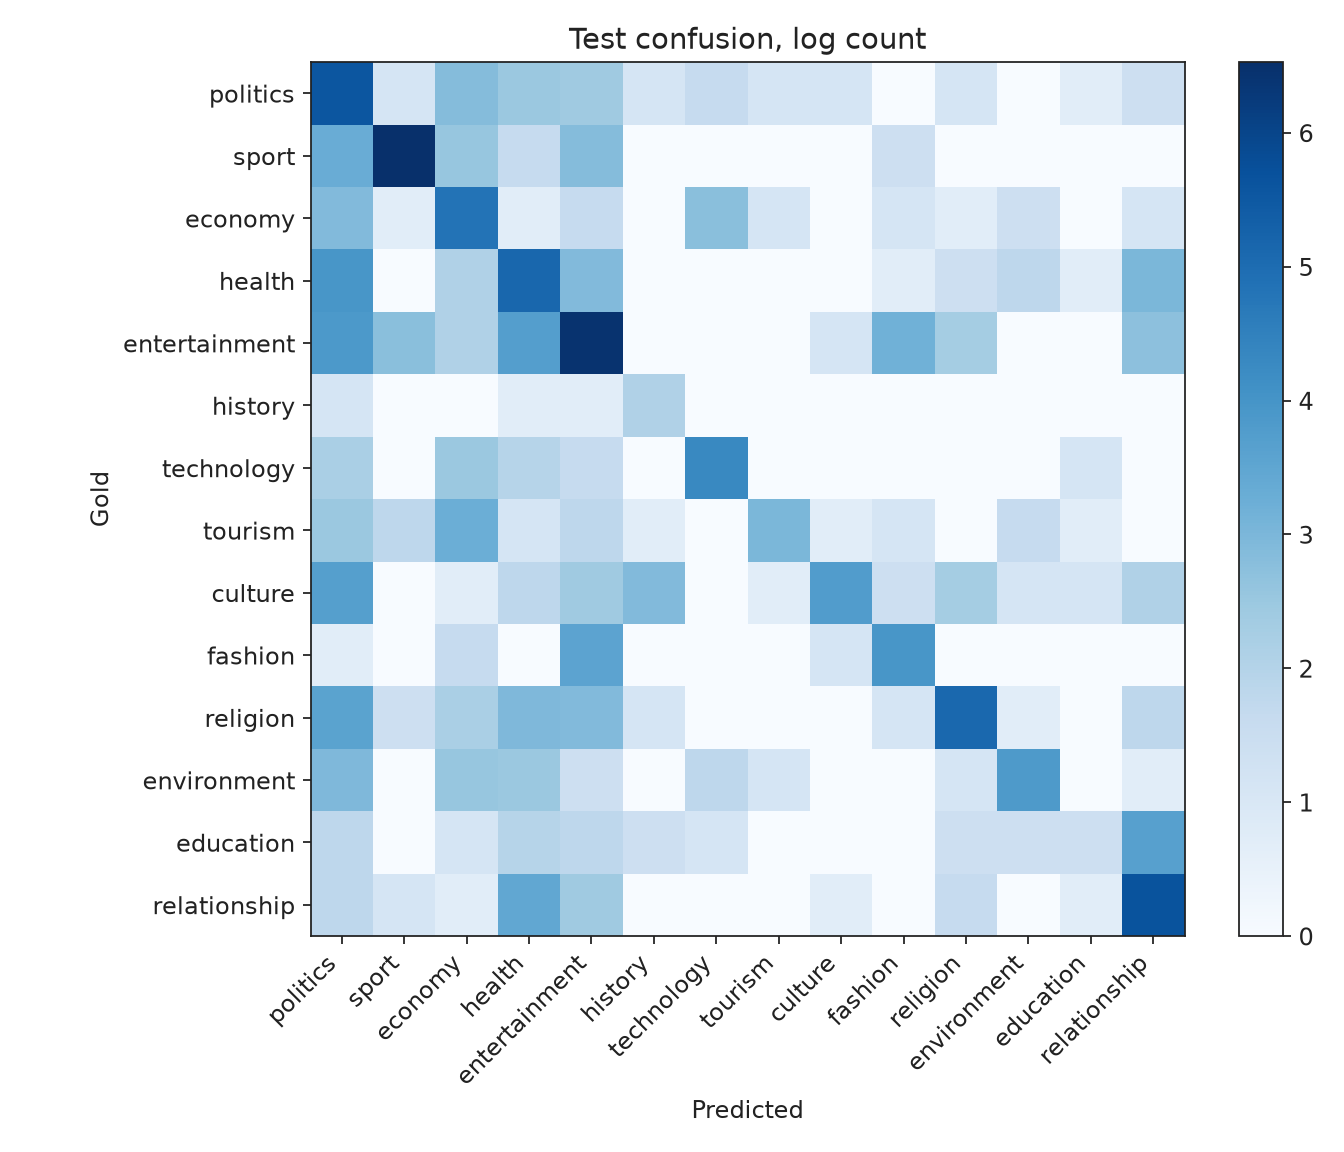
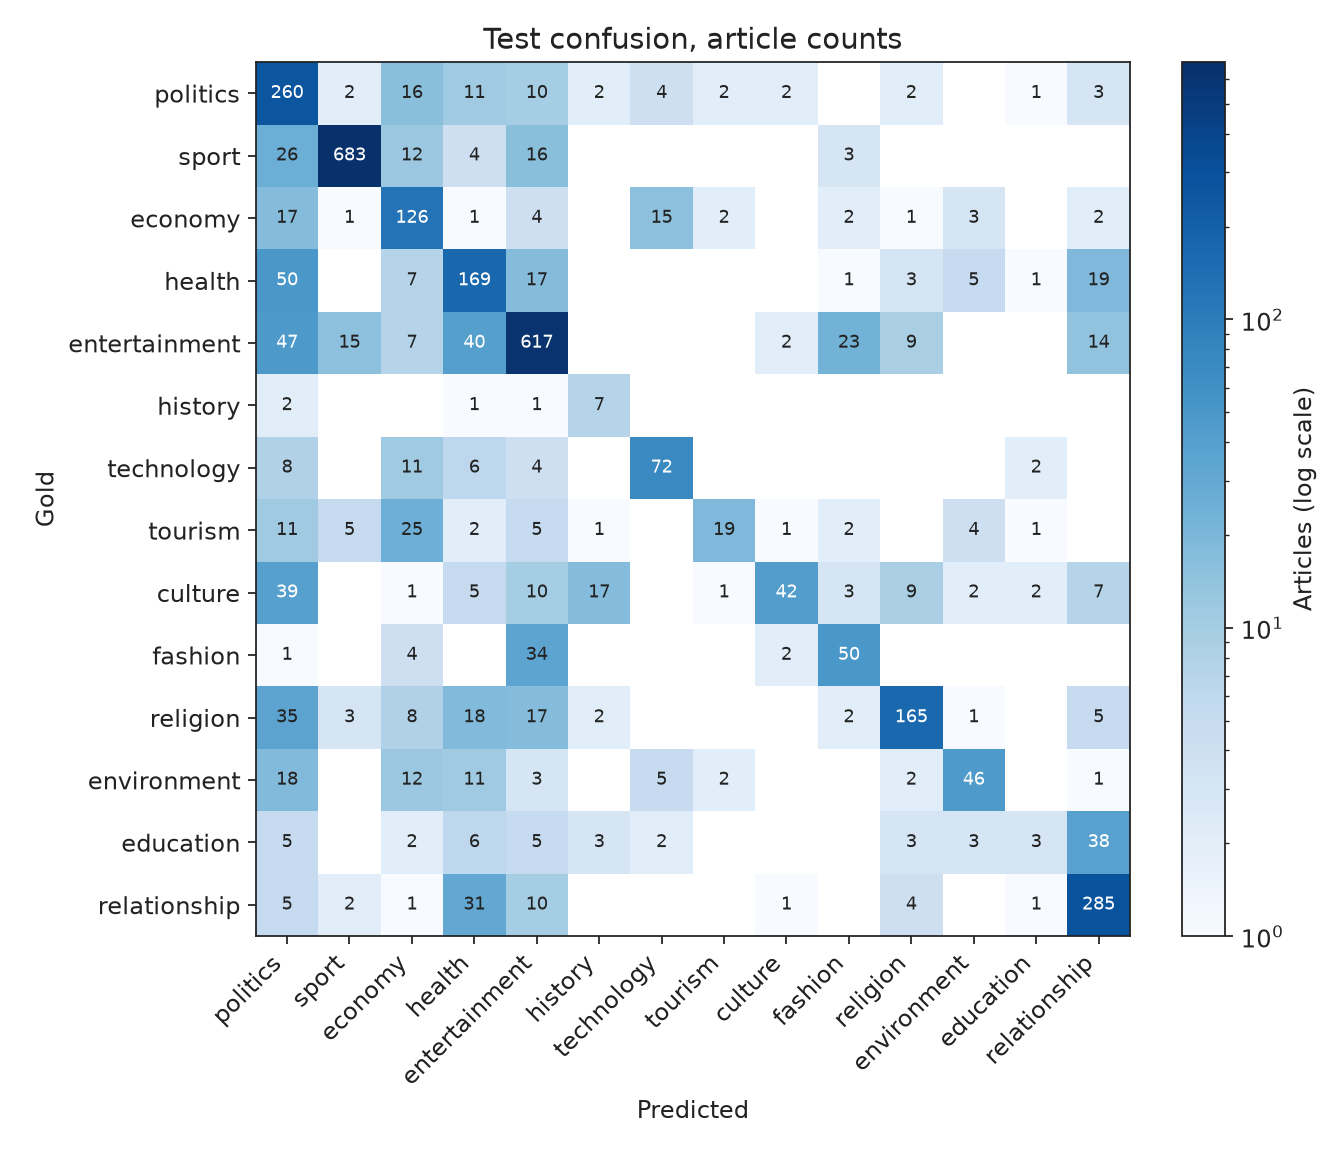
Label the confusion matrix counts and link all six notebooks
Print each cell's article count on the confusion matrix and label the
log colour scale. Count six training notebooks in the docs and the
Colab launcher, and link notebook 06 from it.

diff --git a/docs/deployment.md b/docs/deployment.md
@@ -30,7 +30,7 @@ print(model.predict(["Amavubi yatsinze Uganda ibitego bibiri ku busa mu mukino w
 
 ## Colab
 
-[notebooks/colab_app.ipynb](../notebooks/colab_app.ipynb) ([open in Colab](https://colab.research.google.com/github/Keaane/Ikinyamakuru/blob/main/notebooks/colab_app.ipynb)) has two parts. The first clones this repository, installs `app/requirements.txt`, starts `app/app.py`, and prints a temporary public link through a Cloudflare quick tunnel, which needs no account. The link works while the runtime runs. The second part links the five training notebooks, which also open in Colab; notebook 03 trains AfroXLMR-mini on a free T4 GPU.
+[notebooks/colab_app.ipynb](../notebooks/colab_app.ipynb) ([open in Colab](https://colab.research.google.com/github/Keaane/Ikinyamakuru/blob/main/notebooks/colab_app.ipynb)) has two parts. The first clones this repository, installs `app/requirements.txt`, starts `app/app.py`, and prints a temporary public link through a Cloudflare quick tunnel, which needs no account. The link works while the runtime runs. The second part links the six training notebooks, which also open in Colab; notebook 03 trains AfroXLMR-mini on a free T4 GPU.
 
 ## Run the desk on your machine
 

diff --git a/docs/reproduce.md b/docs/reproduce.md
@@ -2,7 +2,7 @@
 
 [← README](../README.md)
 
-The training happens in five notebooks. Run them in order from Jupyter or VS Code with `requirements.txt` installed, or open each one in Colab with its button; each notebook's first cell sets up either environment.
+The training happens in six notebooks. Run them in order from Jupyter or VS Code with `requirements.txt` installed, or open each one in Colab with its button; each notebook's first cell sets up either environment.
 
 | Notebook | What it does | Writes |
 | --- | --- | --- |

diff --git a/docs/results.md b/docs/results.md
@@ -72,7 +72,7 @@ The deployed system stays `char_balanced`. That decision was made after both tes
 
 ![Test F1 by section for the deployed system](../results/figures/per_class_f1.png)
 
-![Test confusion matrix, log counts](../results/figures/confusion.png)
+![Test confusion matrix, article counts on a log colour scale](../results/figures/confusion.png)
 
 Sport has the highest test F1 (0.94), followed by entertainment (0.81), relationship (0.80), religion (0.73), and technology (0.72).
 
